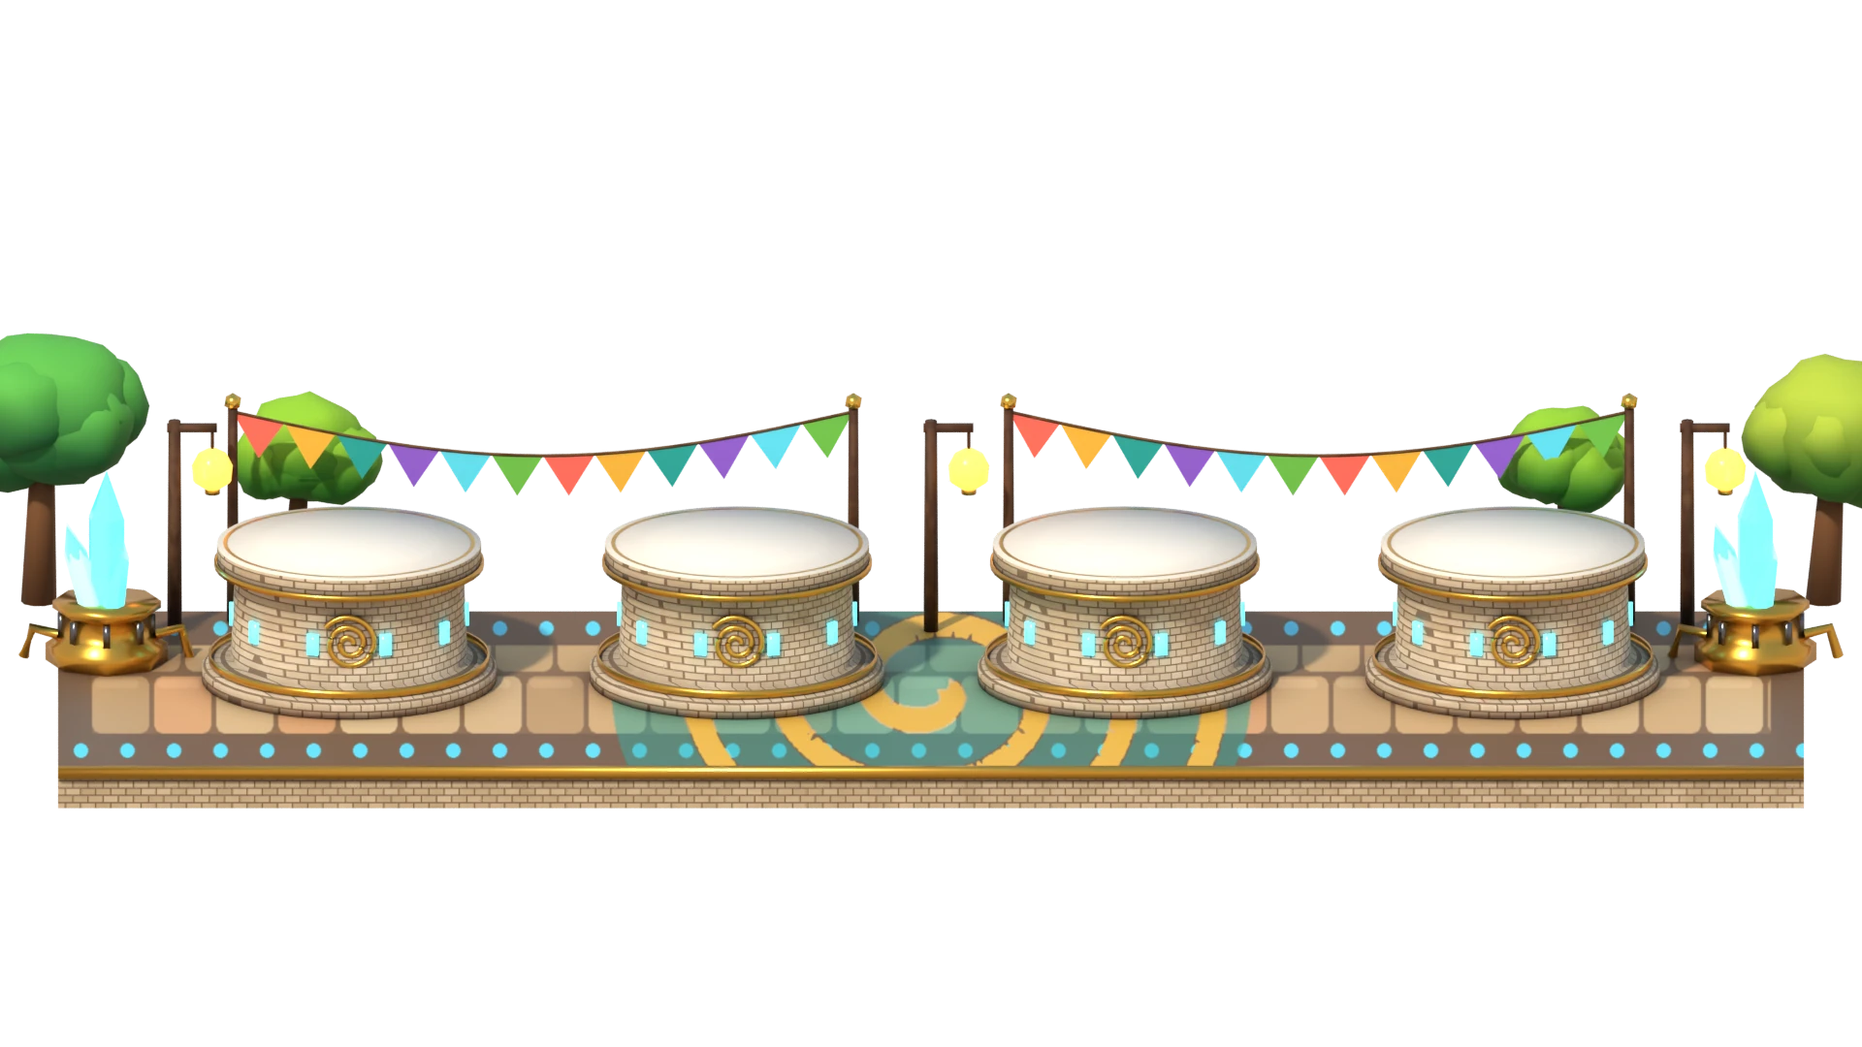
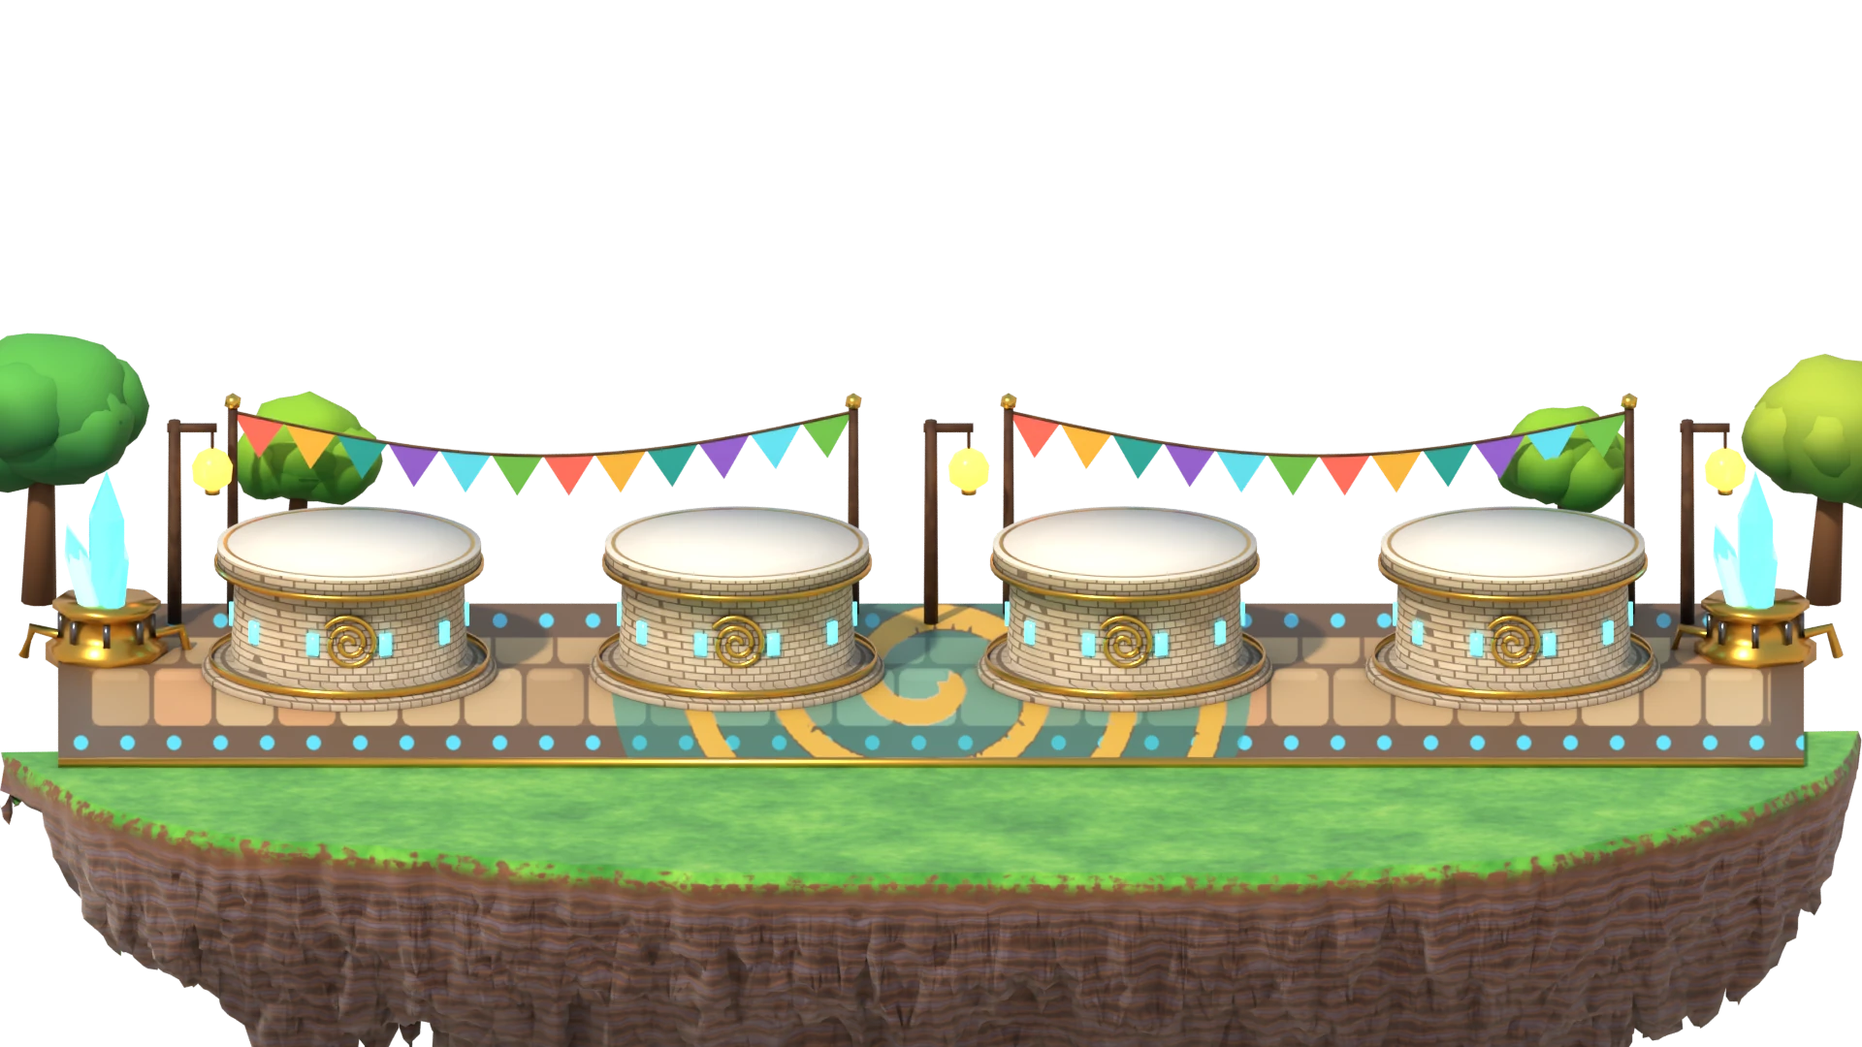
Rendered 3D board spaces, Orbit arm frames, perspective Gleam arena, island stages
- 8 space types as enamel discs in stone sockets, rendered from the board camera
- Orbit Dodge arms pre-rendered at 64 angles with floor shadows (4096-wide atlas)
- Gleam Grab plaza rendered through a perspective camera, plus its back-wall front layer and
  the corner data the game uses for its homography
- Select and results stages rebuilt on floating islands
- Orbit Dial gains spinning brass orbit rings, sparks and a ground shadow; title heroes staggered
- New story props (sky-boat, well, flower cart, mine, weather vane, bench) and workshop/stall
  model upgrades for the next board render

Claude-Session: https://claude.ai/code/session_01SaCmMRmT6ous3ZUywnLqEj

Changed region(s): [[0.0, 0.55, 1.0, 1.0]]

diff --git a/src/game/scenes/TitleScene.ts b/src/game/scenes/TitleScene.ts
@@ -50,7 +50,7 @@ export class TitleScene extends Phaser.Scene {
     this.buildLogo();
     this.buildMenu();
     // "Press A to start" plate under the logo (navy pill, gold rim) so it reads over any backdrop.
-    this.pressText = this.add.container(470, 640).setDepth(600);
+    this.pressText = this.add.container(440, 648).setDepth(600);
     this.pressKind = null;
     this.refreshPressPlate();
     this.tweens.add({ targets: this.pressText, scale: { from: 1, to: 1.06 }, duration: 700, yoyo: true, repeat: -1, ease: 'Sine.InOut' });
@@ -96,13 +96,21 @@ export class TitleScene extends Phaser.Scene {
     } else {
       this.buildVectorIsland(island);
     }
-    const xs = [-330, -110, 110, 330];
-    CHARACTER_IDS.forEach((id, i) => {
-      const c = new Character(this, xs[i], 690 + (i % 2) * 14, id, { scale: 0.95 });
+    // Staggered in depth (not a police line-up); nearer heroes a touch larger, added back to front.
+    const spots: [number, number][] = [
+      [-345, 716],
+      [-140, 664],
+      [85, 704],
+      [320, 672],
+    ];
+    const made = CHARACTER_IDS.map((id, i) => {
+      const [x, y] = spots[i];
+      const c = new Character(this, x, y, id, { scale: 0.86 + ((y - 660) / 60) * 0.1 });
       c.face(i >= 2);
-      island.add(c);
-      this.chars.push(c);
+      return c;
     });
+    [...made].sort((a, b) => a.y - b.y).forEach((c) => island.add(c));
+    this.chars.push(...made);
     this.tweens.add({ targets: island, y: -14, duration: 3000, yoyo: true, repeat: -1, ease: 'Sine.InOut' });
   }
 
@@ -128,10 +136,11 @@ export class TitleScene extends Phaser.Scene {
   }
 
   private buildLogo(): void {
-    this.logo = this.add.container(470, 0).setDepth(400);
-    const emblem = this.add.image(0, 230, 'emblem').setScale(0.95);
-    const title = addTitle(this, 0, 425, TITLE, 132);
-    const sub = addText(this, 0, 518, SUBTITLE, 44, { color: CSS.goldLight, weight: 700, stroke: CSS.tealDeep, strokeThickness: 8, shadow: true, fixed: true });
+    // Emblem tucked onto the wordmark so the lockup reads as one piece.
+    this.logo = this.add.container(440, 0).setDepth(400);
+    const emblem = this.add.image(0, 292, 'emblem').setScale(0.82);
+    const title = addTitle(this, 0, 440, TITLE, 124);
+    const sub = addText(this, 0, 530, SUBTITLE, 42, { color: CSS.goldLight, weight: 700, stroke: CSS.tealDeep, strokeThickness: 8, shadow: true, fixed: true });
     this.logo.add([emblem, title, sub]);
     this.tweens.add({ targets: emblem, angle: 360, duration: 24000, repeat: -1 });
     this.tweens.add({ targets: [emblem, title, sub], y: '+=10', duration: 2400, yoyo: true, repeat: -1, ease: 'Sine.InOut' });

diff --git a/src/game/board/OrbitDial.ts b/src/game/board/OrbitDial.ts
@@ -23,12 +23,36 @@ export class OrbitDial {
     const y = token.y - 300;
     const root = s.add.container(x, y).setDepth(DEPTH.worldUi + 50);
     const glow = s.add.image(0, 0, 'fx-dot').setScale(14).setTint(COLORS.goldLight).setAlpha(0.5).setBlendMode(Phaser.BlendModes.ADD);
-    // Soft drop shadow gives the hovering dial depth.
-    const shadow = s.add.image(14, 150, 'fx-shadow').setScale(1.6, 0.42).setAlpha(0.5);
+    // The hovering dial casts a soft shadow on the ground at the hero's feet.
+    const shadow = s.add.image(40, 300, 'fx-shadow').setScale(2.4, 0.6).setAlpha(0.55);
+    // Two brass orbit rings spinning around the medallion (an astrolabe feel).
+    const orbits = s.add.graphics();
+    const sparks = [0, 1, 2].map((i) => s.add.image(0, 0, 'fx-dot').setScale(0.9).setTint(i === 1 ? 0xc49bff : COLORS.crystal).setBlendMode(Phaser.BlendModes.ADD));
+    const drawOrbits = (t: number) => {
+      orbits.clear();
+      const rings: [number, number][] = [
+        [150, t * 1.7],
+        [168, -t * 1.3 + 1.2],
+      ];
+      rings.forEach(([r, ph], k) => {
+        const rx = r * Math.abs(Math.cos(ph)) + 18;
+        orbits.lineStyle(k ? 5 : 7, 0x7a5210, 0.55);
+        orbits.strokeEllipse(2, 4, rx * 2, r * 2 * 0.98);
+        orbits.lineStyle(k ? 3 : 4, COLORS.goldLight, 0.95);
+        orbits.strokeEllipse(0, 0, rx * 2, r * 2 * 0.98);
+      });
+      sparks.forEach((sp, i) => {
+        const a = t * (2.2 + i * 0.5) + (i * Math.PI * 2) / 3;
+        sp.setPosition(Math.cos(a) * 160, Math.sin(a) * 58 - 10).setAlpha(0.6 + 0.4 * Math.sin(a * 2));
+      });
+    };
+    drawOrbits(0);
     const rendered = s.textures.exists('rendered-ui-dial');
     const ring = rendered ? s.add.image(0, 0, 'rendered-ui-dial').setDisplaySize(236, 236) : s.add.image(0, 0, 'orbit-dial').setScale(0.52);
     const num = addText(s, 0, -4, '1', 108, { color: CSS.tealDeep, weight: 700, fixed: true, stroke: '#ffffff', strokeThickness: 10 });
-    root.add([shadow, glow, ring, num]);
+    root.add([shadow, glow, orbits, ring, ...sparks, num]);
+    const orbitT = { t: 0 };
+    const orbitTween = s.tweens.add({ targets: orbitT, t: Math.PI * 20, duration: 20000, repeat: -1, onUpdate: () => drawOrbits(orbitT.t) });
     root.setScale(0.1);
     token.play('dial');
     audio.play('pop', { rate: 0.8 });
@@ -111,6 +135,7 @@ export class OrbitDial {
       await new Promise<void>((r) => s.time.delayedCall(350, () => r()));
     }
     token.play('celebrate');
+    orbitTween.stop();
     await new Promise<void>((r) =>
       s.tweens.add({
         targets: root,

diff --git a/scripts/art/props.py b/scripts/art/props.py
@@ -248,24 +248,58 @@ def workshop(bx, by, s=1.0) -> list:
         P.b['wood'].add(v, f, WOOD)
     v, f = lib.box((x, y - D / 2 - 0.02, Hh - 0.04), (W + 0.1, 0.07 * s, 0.08 * s))
     P.b['wood'].add(v, f, WOOD)
-    # pitched roof built from overlapping tile courses (alternating teal shades)
+    # pitched roof of individual clay tiles (colour-jittered, slightly uneven) so it reads as a
+    # textured roof rather than a flat block
     ridge = Hh + 0.62 * s
     o = 0.16 * s
     courses = 7
+    across = 11
+    rt = random.Random(11)
+    pal = ['#c8553d', '#d8653f', '#b84a36', '#e07048', '#c95e45']
     for side in (-1, 1):
         for k in range(courses):
-            t0, t1 = k / courses, (k + 1) / courses + 0.04
+            t0, t1 = k / courses, (k + 1) / courses + 0.05
             ya = y + side * (D / 2 + o) * (1 - t0)
             yb = y + side * (D / 2 + o) * (1 - min(1.0, t1))
             za = Hh - 0.05 + (ridge - Hh + 0.05) * t0
             zb = Hh - 0.05 + (ridge - Hh + 0.05) * min(1.0, t1)
-            lift = 0.035 * s
-            quad = [(x - W / 2 - o, ya, za + lift), (x + W / 2 + o, ya, za + lift), (x + W / 2 + o, yb, zb + lift), (x - W / 2 - o, yb, zb + lift)]
-            face = [(0, 1, 2, 3)] if side < 0 else [(3, 2, 1, 0)]
-            P.b['paint'].add(quad, face, col('#2aa39c' if k % 2 == 0 else '#23908a'))
-            # tile lip (thickness at the lower edge of each course)
-            lip = [(x - W / 2 - o, ya, za + lift), (x + W / 2 + o, ya, za + lift), (x + W / 2 + o, ya, za + lift - 0.06 * s), (x - W / 2 - o, ya, za + lift - 0.06 * s)]
-            P.b['paint'].add(lip, [(0, 1, 2, 3), (3, 2, 1, 0)], col('#1a746f'))
+            off = (k % 2) * 0.5
+            for j in range(across + 1):
+                xa = x - W / 2 - o + (j - off) * (W + 2 * o) / across
+                xb = xa + (W + 2 * o) / across * 0.96
+                xa, xb = max(xa, x - W / 2 - o), min(xb, x + W / 2 + o)
+                if xb - xa < 0.02:
+                    continue
+                lift = 0.035 * s + rt.uniform(-0.008, 0.012) * s
+                quad = [(xa, ya, za + lift), (xb, ya, za + lift), (xb, yb, zb + lift), (xa, yb, zb + lift)]
+                face = [(0, 1, 2, 3)] if side < 0 else [(3, 2, 1, 0)]
+                c = rt.choice(pal)
+                P.b['paint'].add(quad, face, col(c))
+                lip = [(xa, ya, za + lift), (xb, ya, za + lift), (xb, ya, za + lift - 0.06 * s), (xa, ya, za + lift - 0.06 * s)]
+                P.b['paint'].add(lip, [(0, 1, 2, 3), (3, 2, 1, 0)], lib.lerp_col(col(c), col('#5a2418'), 0.45))
+    # stone foundation band
+    v, f = lib.box((x, y, 0.09 * s), (W + 0.08 * s, D + 0.08 * s, 0.18 * s))
+    P.b['stone'].add(v, f, col('#b9ab98'))
+    # lean-to shed on the right with its own slanted roof (breaks up the box silhouette)
+    sx0 = x + W / 2
+    v, f = lib.box((sx0 + 0.28 * s, y + 0.1 * s, 0.33 * s), (0.56 * s, 0.7 * s, 0.66 * s))
+    P.b['wood'].add(v, f, col('#a8744a'))
+    lean = [(sx0 - 0.02, y - 0.3 * s, 0.86 * s), (sx0 + 0.66 * s, y - 0.3 * s, 0.66 * s), (sx0 + 0.66 * s, y + 0.5 * s, 0.66 * s), (sx0 - 0.02, y + 0.5 * s, 0.86 * s)]
+    P.b['wood'].add(lean, [(0, 1, 2, 3), (3, 2, 1, 0)], col('#6b4428'))
+    # brass water tank on stilts behind the workshop
+    tx, ty = x - W / 2 + 0.2 * s, y + D / 2 + 0.35 * s
+    for (dx, dy) in [(-0.15, -0.15), (0.15, -0.15), (-0.15, 0.15), (0.15, 0.15)]:
+        v, f = lib.cylinder((tx + dx * 0.7 * s, ty + dy * 0.7 * s, 0.0), 0.02 * s, 0.02 * s, 0.95 * s, 6)
+        P.b['wood'].add(v, f, DARKWOOD)
+    v, f = lib.lathe([(0.14 * s, 0.0), (0.15 * s, 0.03 * s), (0.15 * s, 0.26 * s), (0.11 * s, 0.32 * s), (0.0, 0.34 * s)], 18, (tx, ty, 0.95 * s), cap_bottom=True)
+    P.b['metal'].add(v, f, BRASS)
+    # window boxes with flowers
+    for wx in (x + 0.35 * s,):
+        v, f = lib.box((wx, y - D / 2 - 0.08 * s, 0.44 * s), (0.4 * s, 0.1 * s, 0.08 * s))
+        P.b['wood'].add(v, f, DARKWOOD)
+        for k in range(5):
+            v, f = lib.blob((wx - 0.16 * s + k * 0.08 * s, y - D / 2 - 0.08 * s, 0.5 * s), 0.035 * s, rough=0.0, subdiv=1)
+            P.b['paint'].add(v, f, col(['#ff5a6e', '#ffd166', '#ffffff', '#ff9ecb', '#c49bff'][k]))
     # brass ridge cap
     v, f = lib.tube([(x - W / 2 - o, y, ridge + 0.05), (x + W / 2 + o, y, ridge + 0.05)], 0.06 * s, 10)
     P.b['metal'].add(v, f, BRASS)
@@ -561,4 +595,168 @@ def stage(bx, by, s=1.0) -> list:
         P.b['wood'].add(v, f, DARKWOOD)
         tri = [(px, py, 1.28 * s), (px, py, 1.02 * s), (px + (0.34 if k else -0.34) * s, py, 1.15 * s)]
         P.b['paint'].add(tri, [(0, 1, 2), (2, 1, 0)], col(cols[k]))
+    return P.build()
+
+
+# ------------------------------------------------------------------------------------------
+# Story props (mid-sized scenery that gives each region a sense of place)
+def skyboat(bx, by, s=1.0) -> list:
+    """A little festival sky-boat moored at the docks: wooden hull, striped balloon, lanterns."""
+    p = _at(bx, by)
+    P = Prop('skyboat')
+    x, y = p.x, p.y
+    z0 = 0.55 * s
+    L, Wd = 1.7 * s, 0.62 * s
+    # hull: a spindle revolved around Z, laid along X, narrowed and cut flat for the deck
+    prof = [(0.0, -L / 2), (0.16 * s, -L / 2 + 0.08 * s), (0.3 * s, -L / 4), (0.33 * s, 0.0), (0.3 * s, L / 4), (0.18 * s, L / 2 - 0.08 * s), (0.02 * s, L / 2)]
+    v, f = lib.lathe(prof, 20, (0, 0, 0), cap_bottom=False, cap_top=False)
+    v = lib.transform(v, loc=(x, y, z0), rot=(0.0, math.pi / 2, 0.0), scale=(1.0, Wd / (0.66 * s), 1.0))
+    v = [(vx, vy, min(vz, z0 + 0.06 * s)) for (vx, vy, vz) in v]
+    P.b['wood'].add(v, f, lambda vv: col('#8a5a34') if vv[2] < z0 - 0.12 * s else col('#b07a45'))
+    # deck rail and gold trim
+    rail = [(x - L / 2 + 0.2 * s, y, z0 + 0.1 * s), (x + L / 2 - 0.2 * s, y, z0 + 0.1 * s)]
+    v, f = lib.tube(rail, 0.02 * s, 6)
+    P.b['metal'].add(v, f, BRASS)
+    # mast, balloon (striped gores) and rigging
+    v, f = lib.cylinder((x, y, z0), 0.035 * s, 0.03 * s, 1.1 * s, 8)
+    P.b['wood'].add(v, f, DARKWOOD)
+    bz = z0 + 1.45 * s
+    gores = 12
+    for k in range(gores):
+        a0, a1 = k / gores * math.tau, (k + 1) / gores * math.tau
+        verts, faces = [], []
+        rows = 10
+        for r in range(rows + 1):
+            t = r / rows
+            el = -math.pi / 2 + t * math.pi
+            rr = math.cos(el) * 0.62 * s
+            zz = bz + math.sin(el) * 0.5 * s
+            for a in (a0, a1):
+                verts.append((x + math.cos(a) * rr * 1.25, y + math.sin(a) * rr, zz))
+        for r in range(rows):
+            i = r * 2
+            faces.append((i, i + 1, i + 3, i + 2))
+        P.b['paint'].add(verts, faces, col('#ff6b5e' if k % 2 == 0 else '#fff4dc'))
+    for (dx, dy) in [(-0.5, -0.2), (0.5, -0.2), (-0.5, 0.2), (0.5, 0.2)]:
+        v, f = lib.tube([(x + dx * s * 0.9, y + dy * s, z0 + 0.06 * s), (x + dx * s * 0.7, y + dy * s * 0.8, bz - 0.45 * s)], 0.008 * s, 4)
+        P.b['wood'].add(v, f, DARKWOOD)
+    # propeller at the stern and hanging lanterns
+    v, f = lib.box((x - L / 2 - 0.04 * s, y, z0 + 0.02 * s), (0.04 * s, 0.4 * s, 0.07 * s))
+    P.b['metal'].add(v, f, BRASS)
+    for dx in (-0.45, 0.45):
+        v, f = lib.blob((x + dx * s, y - 0.3 * s, z0 + 0.3 * s), 0.07 * s, rough=0.0, subdiv=2)
+        P.b['glow'].add(v, f, col('#ffd27a'))
+    return P.build()
+
+
+def well(bx, by, s=1.0) -> list:
+    """Round stone well with a little shingled roof and a bucket."""
+    p = _at(bx, by)
+    P = Prop('well')
+    x, y = p.x, p.y
+    v, f = lib.lathe([(0.42 * s, 0.0), (0.42 * s, 0.42 * s), (0.34 * s, 0.46 * s), (0.34 * s, 0.1 * s), (0.0, 0.1 * s)], 24, (x, y, 0.0), cap_bottom=False, cap_top=False)
+    P.b['stone'].add(v, f, col('#d9ccba'))
+    v, f = lib.lathe([(0.33 * s, 0.12 * s), (0.0, 0.12 * s)], 24, (x, y, 0.0), cap_bottom=False, cap_top=False)
+    P.b['glow'].add(v, f, col('#3fb0d8'))
+    for dx in (-0.36, 0.36):
+        v, f = lib.cylinder((x + dx * s, y, 0.4 * s), 0.035 * s, 0.035 * s, 0.75 * s, 8)
+        P.b['wood'].add(v, f, DARKWOOD)
+    roof_z = 1.15 * s
+    for side in (-1, 1):
+        quad = [(x - 0.44 * s, y + side * 0.3 * s, roof_z - 0.1 * s), (x + 0.44 * s, y + side * 0.3 * s, roof_z - 0.1 * s), (x + 0.44 * s, y, roof_z + 0.3 * s), (x - 0.44 * s, y, roof_z + 0.3 * s)]
+        P.b['paint'].add(quad, [(0, 1, 2, 3)] if side < 0 else [(3, 2, 1, 0)], col('#c8553d'))
+    v, f = lib.tube([(x - 0.36 * s, y, 0.95 * s), (x + 0.36 * s, y, 0.95 * s)], 0.03 * s, 8)
+    P.b['wood'].add(v, f, WOOD)
+    v, f = lib.lathe([(0.07 * s, 0.0), (0.09 * s, 0.14 * s), (0.0, 0.14 * s)], 10, (x + 0.1 * s, y - 0.05 * s, 0.62 * s), cap_bottom=True, cap_top=False)
+    P.b['wood'].add(v, f, col('#9a643a'))
+    return P.build()
+
+
+def flower_cart(bx, by, s=1.0) -> list:
+    """Two-wheeled cart heaped with flower pots."""
+    p = _at(bx, by)
+    P = Prop('flower_cart')
+    x, y = p.x, p.y
+    v, f = lib.box((x, y, 0.4 * s), (0.9 * s, 0.5 * s, 0.22 * s))
+    P.b['wood'].add(v, f, col('#b07a45'))
+    for dy in (-0.27, 0.27):
+        v, f = lib.cylinder((0, 0, 0), 0.24 * s, 0.24 * s, 0.05 * s, 16)
+        v = lib.transform(v, loc=(x - 0.1 * s, y + dy * s, 0.24 * s), rot=(math.pi / 2, 0.0, 0.0))
+        P.b['wood'].add(v, f, DARKWOOD)
+    v, f = lib.tube([(x + 0.45 * s, y - 0.18 * s, 0.42 * s), (x + 0.95 * s, y - 0.18 * s, 0.2 * s)], 0.025 * s, 6)
+    P.b['wood'].add(v, f, WOOD)
+    v, f = lib.tube([(x + 0.45 * s, y + 0.18 * s, 0.42 * s), (x + 0.95 * s, y + 0.18 * s, 0.2 * s)], 0.025 * s, 6)
+    P.b['wood'].add(v, f, WOOD)
+    rnd = random.Random(4)
+    for k in range(9):
+        px = x - 0.33 * s + (k % 3) * 0.33 * s
+        py = y - 0.15 * s + (k // 3) * 0.15 * s
+        v, f = lib.lathe([(0.06 * s, 0.0), (0.075 * s, 0.1 * s)], 10, (px, py, 0.51 * s), cap_bottom=True, cap_top=False)
+        P.b['paint'].add(v, f, col('#c8653d'))
+        v, f = lib.blob((px, py, 0.66 * s), 0.08 * s, rough=0.2, subdiv=2, seed=k * 3)
+        P.b['paint'].add(v, f, col(rnd.choice(['#ff5a6e', '#ffd166', '#ffffff', '#ff9ecb', '#c49bff', '#ff8a3a'])))
+    return P.build()
+
+
+def mine_entrance(bx, by, s=1.0) -> list:
+    """Timber-framed crystal mine mouth with rails and an ore cart full of crystals."""
+    p = _at(bx, by)
+    P = Prop('mine')
+    x, y = p.x, p.y
+    # rocky mound
+    v, f = lib.blob((x, y + 0.2 * s, 0.25 * s), 0.9 * s, squash=(1.2, 0.8, 0.75), rough=0.25, freq=1.8, subdiv=3, seed=7)
+    P.b['stone'].add(v, f, col('#8a7a8e'))
+    # dark opening and timber frame on the camera side
+    v, f = lib.box((x, y - 0.55 * s, 0.35 * s), (0.62 * s, 0.1 * s, 0.7 * s))
+    P.b['paint'].add(v, f, col('#1a1420'))
+    for dx in (-0.34, 0.34):
+        v, f = lib.box((x + dx * s, y - 0.62 * s, 0.4 * s), (0.1 * s, 0.1 * s, 0.8 * s))
+        P.b['wood'].add(v, f, WOOD)
+    v, f = lib.box((x, y - 0.62 * s, 0.82 * s), (0.86 * s, 0.12 * s, 0.1 * s))
+    P.b['wood'].add(v, f, WOOD)
+    # rails and a cart with crystals
+    for dx in (-0.12, 0.12):
+        v, f = lib.box((x + dx * s, y - 1.05 * s, 0.02 * s), (0.03 * s, 0.9 * s, 0.03 * s))
+        P.b['metal'].add(v, f, IRON)
+    v, f = lib.box((x, y - 1.15 * s, 0.25 * s), (0.42 * s, 0.34 * s, 0.24 * s))
+    P.b['metal'].add(v, f, col('#7a5a3a'))
+    rnd = random.Random(9)
+    for k in range(6):
+        v, f = lib.prism((x + rnd.uniform(-0.14, 0.14) * s, y - 1.15 * s + rnd.uniform(-0.1, 0.1) * s, 0.34 * s), 0.05 * s, rnd.uniform(0.15, 0.3) * s,
+                         tilt=(rnd.uniform(-0.4, 0.4), rnd.uniform(-0.4, 0.4)))
+        P.b['crystal'].add(v, f, col(rnd.choice(['#5ce1ff', '#c49bff', '#8ff0ff'])))
+    return P.build()
+
+
+def weather_vane(bx, by, s=1.0) -> list:
+    """Tall pole with a brass arrow vane and spinning cups (windy ledge)."""
+    p = _at(bx, by)
+    P = Prop('vane')
+    x, y = p.x, p.y
+    v, f = lib.cylinder((x, y, 0.0), 0.05 * s, 0.035 * s, 1.9 * s, 8)
+    P.b['wood'].add(v, f, DARKWOOD)
+    v, f = lib.box((x + 0.12 * s, y, 1.85 * s), (0.6 * s, 0.03 * s, 0.05 * s))
+    P.b['metal'].add(v, f, BRASS)
+    v, f = lib.prism((x + 0.45 * s, y, 1.85 * s), 0.07 * s, 0.14 * s, sides=3, tilt=(0.0, math.pi / 2))
+    P.b['metal'].add(v, f, BRASS)
+    v, f = lib.box((x - 0.2 * s, y, 1.88 * s), (0.02 * s, 0.03 * s, 0.22 * s))
+    P.b['metal'].add(v, f, BRASS)
+    for k in range(3):
+        a = k / 3 * math.tau
+        v, f = lib.blob((x + math.cos(a) * 0.18 * s, y + math.sin(a) * 0.18 * s, 1.6 * s), 0.06 * s, squash=(1, 1, 0.7), rough=0.0, subdiv=1)
+        P.b['metal'].add(v, f, col('#e0a93f'))
+    return P.build()
+
+
+def bench(bx, by, s=1.0) -> list:
+    p = _at(bx, by)
+    P = Prop('bench')
+    x, y = p.x, p.y
+    v, f = lib.box((x, y, 0.24 * s), (0.7 * s, 0.22 * s, 0.05 * s))
+    P.b['wood'].add(v, f, col('#b07a45'))
+    v, f = lib.box((x, y + 0.1 * s, 0.42 * s), (0.7 * s, 0.04 * s, 0.2 * s))
+    P.b['wood'].add(v, f, col('#a06a3a'))
+    for dx in (-0.3, 0.3):
+        v, f = lib.box((x + dx * s, y, 0.12 * s), (0.05 * s, 0.2 * s, 0.24 * s))
+        P.b['metal'].add(v, f, IRON)
     return P.build()

diff --git a/scripts/art/board.py b/scripts/art/board.py
@@ -80,6 +80,14 @@ LANDMARKS = [
     dict(id='bunting-plaza', kind='bunting', x=1700, y=2140, s=1.6, width=220, r=60, tex='bunting'),
     dict(id='bunting-terrace', kind='bunting', x=3130, y=590, s=1.4, width=180, r=60, tex='bunting'),
     dict(id='gate', kind='gate', x=1925, y=2150, s=1.6, r=0, tex='prism-gate'),
+    # story props: a sky-boat moored off the docks, the plaza well, a flower cart on the terrace,
+    # the crystal mine, a weather vane on the windy ledge and a bench in the grove
+    dict(id='skyboat', kind='skyboat', x=3720, y=1990, s=1.6, r=0, tex=''),
+    dict(id='well', kind='well', x=1520, y=2050, s=1.2, r=80, tex=''),
+    dict(id='flower-cart', kind='flower_cart', x=2640, y=852, s=1.2, r=0, tex=''),
+    dict(id='mine', kind='mine', x=1360, y=600, s=1.3, r=110, tex=''),
+    dict(id='vane', kind='vane', x=3400, y=1300, s=1.2, r=0, tex=''),
+    dict(id='bench', kind='bench', x=900, y=1560, s=1.2, r=0, tex=''),
 ]
 for _g in ['go4', 'c2', 't4', 'd3', 'o2']:
     _n = next(n for n in DATA['nodes'] if n['id'] == _g)
@@ -280,7 +288,7 @@ def near_landmark(bx, by, pad=0.0):
                 if (bx - px) ** 2 + (by - lm['y']) ** 2 < (30 + pad) ** 2:
                     return True
             continue
-        rr = {'lantern': 34, 'pedestal': 40, 'gate': 120, 'stage': 115}.get(k, lm['r'] * 0.85)
+        rr = {'lantern': 34, 'pedestal': 40, 'gate': 120, 'stage': 115, 'flower_cart': 70, 'vane': 34, 'bench': 50, 'well': 70, 'mine': 110}.get(k, lm['r'] * 0.85)
         if (bx - lm['x']) ** 2 + (by - lm['y']) ** 2 < (rr + pad) ** 2:
             return True
     return False
@@ -661,6 +669,18 @@ def main():
             obs = props.gate(lm['x'], lm['y'], lm['s'])
         elif k == 'stage':
             obs = props.stage(lm['x'], lm['y'], lm['s'])
+        elif k == 'skyboat':
+            obs = props.skyboat(lm['x'], lm['y'], lm['s'])
+        elif k == 'well':
+            obs = props.well(lm['x'], lm['y'], lm['s'])
+        elif k == 'flower_cart':
+            obs = props.flower_cart(lm['x'], lm['y'], lm['s'])
+        elif k == 'mine':
+            obs = props.mine_entrance(lm['x'], lm['y'], lm['s'])
+        elif k == 'vane':
+            obs = props.weather_vane(lm['x'], lm['y'], lm['s'])
+        elif k == 'bench':
+            obs = props.bench(lm['x'], lm['y'], lm['s'])
         else:
             obs = props.pedestal(lm['x'], lm['y'], lm['s'])
         built[lm['id']] = (lm, obs)

diff --git a/scripts/art/spaces.py b/scripts/art/spaces.py
@@ -146,6 +146,7 @@ names = ['gleam'] if A.preview else list(TYPES)
 for kind in names:
     side, top, hl = TYPES[kind]
     lib.reset(12 if A.preview else 48)
+    props._MATS.clear()  # the factory reset removed the cached prop materials
     lib.world_light(0.8)
     lib.sun(energy=3.6, elevation=40, azimuth=-35, angle=2.5, color='#ffe9c9')
     BX, BY = 200.0, 200.0

diff --git a/scripts/art/orbit_arms.py b/scripts/art/orbit_arms.py
@@ -160,7 +160,7 @@ for kind, objs in (('low', low), ('high', high)):
 
 # Shelf-pack into one atlas.
 frames.sort(key=lambda f: -f[1].height)
-W = 2048
+W = 4096
 x = y = shelf = 0
 placed = []
 for name, im, ox, oy in frames:
